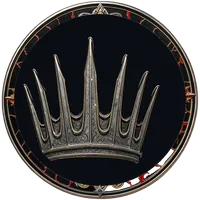
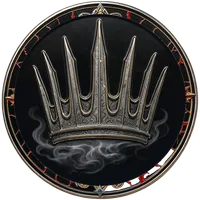
fix(badge-art): rebuild Nazgul emblem with full crown and smoke
- regenerate b-112358 with FLUX.3 Klein at the 5 Nov ComfyUI commit; the
  tracked master's lower-left base corner was clipped by the original 800 px
  emblem mask and the raw candidate was no longer on disk
- keep the smoke, drop the generated outer gold ring, and fit the art to a
  425 px disc so both crown base corners stay inside the mask
- rebuild base and bronze/silver/gold/mithril card, thumb, and full WebPs
- regenerate public/img/image-versions.json

Changed region(s): [[0.12, 0.06, 0.84, 0.87], [0.69, 0.12, 0.72, 0.18]]

diff --git a/docs/badge-art-decisions.md b/docs/badge-art-decisions.md
@@ -94,6 +94,8 @@ Machine-readable picks are in `scripts/badge-art/final-selections.json`. Rebuild
 
 **Emblem masters are tracked as of 2026-11-12.** Each badge's processed emblem layer is retained at `assets/badge-art/emblems/<slug>.png`, recovered from the committed `public/img/achievements/full/<slug>.webp` by cropping the center disc (r=410 — the emblem sits at r=400 inside the uniform dark well; the frame ring and the 6 o'clock boss never enter that disc). These masters are derived from lossy WebP, so a rebuild from them reproduces the committed set within WebP re-encode tolerance (RMS ≤ ~4.5/255, worst on 200 px thumbnails; visually identical) rather than byte-identically; rebuilds after recovery are deterministic from the tracked files. A new badge's emblem master is created by its normal generation pipeline and committed alongside the finals.
 
+On 2026-11-27 the Nazgûl badge was reworked: the surviving master had its lower-left base corner clipped by the original 800 px emblem mask, and the raw `b-112358` candidate was no longer on disk. The crown was regenerated with FLUX.3 Klein at the 5 Nov 2026 ComfyUI commit (seed 112358), keeping the smoke, dropping the generated outer gold ring, and fitting the composition on a 425 px emblem disc so the full base corners stay inside the mask. The five `challenge-nazgul-outrun` composites were rebuilt. All other emblem masters were checked and are centred.
+
 ## Standing decisions
 
 - Circle badges only; no hexagon silhouette.
